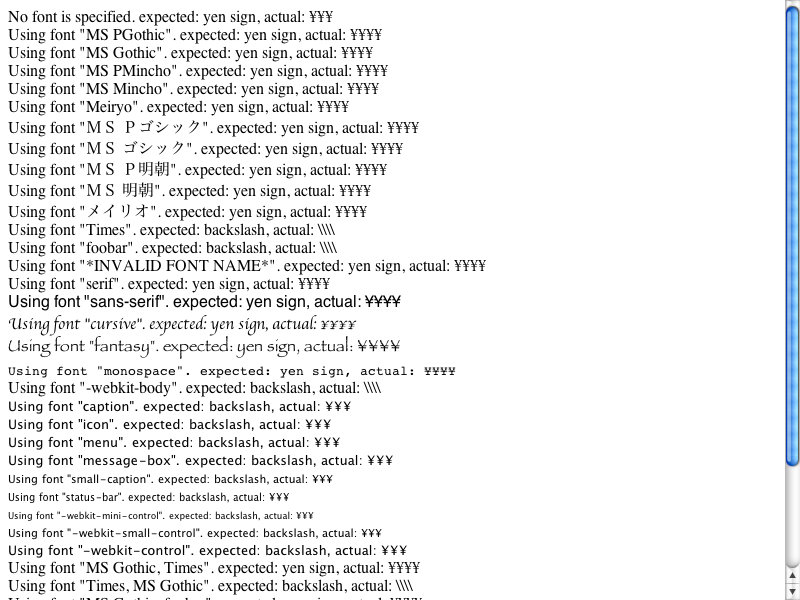
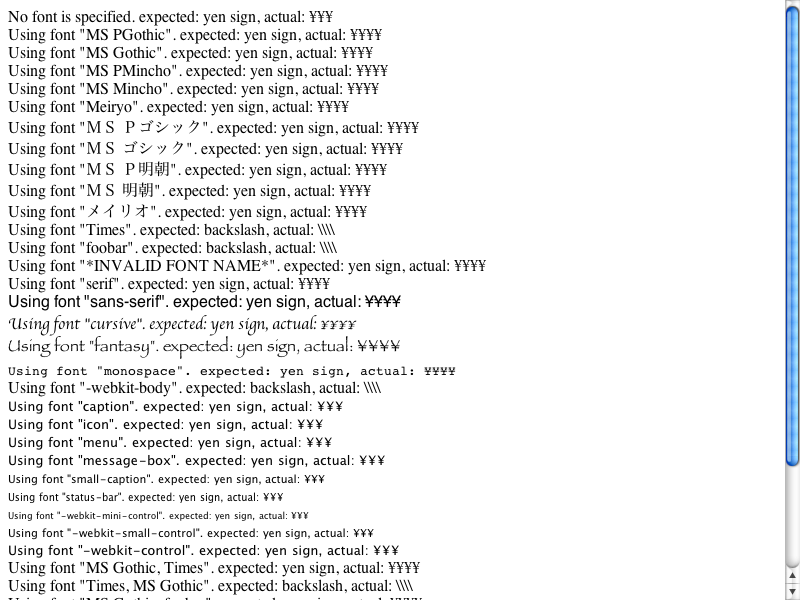
2010-10-11  Shinichiro Hamaji  <hamaji@chromium.org>
Reviewed by Alexey Proskuryakov.

        REGRESSION (r63957): fast/text/backslash-to-yen-sign-euc.html fails on Mac
        https://bugs.webkit.org/show_bug.cgi?id=47017

        * fast/text/backslash-to-yen-sign-euc.html:
        * platform/mac/fast/text/backslash-to-yen-sign-euc-expected.checksum:
        * platform/mac/fast/text/backslash-to-yen-sign-euc-expected.png:
        * platform/mac/fast/text/backslash-to-yen-sign-euc-expected.txt:

git-svn-id: http://svn.webkit.org/repository/webkit/trunk/LayoutTests@69564 268f45cc-cd09-0410-ab3c-d52691b4dbfc

Changed region(s): [[0.2188, 0.66, 0.5, 0.93]]

diff --git a/fast/text/backslash-to-yen-sign-euc.html b/fast/text/backslash-to-yen-sign-euc.html
@@ -29,15 +29,15 @@ function test()
         [ "fantasy", "yen sign" ],
         [ "monospace", "yen sign" ],
         [ "-webkit-body", "backslash" ],
-        [ "caption", "backslash", true ],
-        [ "icon", "backslash", true ],
-        [ "menu", "backslash", true ],
-        [ "message-box", "backslash", true ],
-        [ "small-caption", "backslash", true ],
-        [ "status-bar", "backslash", true ],
-        [ "-webkit-mini-control", "backslash", true ],
-        [ "-webkit-small-control", "backslash", true ],
-        [ "-webkit-control", "backslash", true ],
+        [ "caption", "yen sign", true ],
+        [ "icon", "yen sign", true ],
+        [ "menu", "yen sign", true ],
+        [ "message-box", "yen sign", true ],
+        [ "small-caption", "yen sign", true ],
+        [ "status-bar", "yen sign", true ],
+        [ "-webkit-mini-control", "yen sign", true ],
+        [ "-webkit-small-control", "yen sign", true ],
+        [ "-webkit-control", "yen sign", true ],
         [ "MS Gothic, Times", "yen sign" ],
         [ "Times, MS Gothic", "backslash" ],
         [ "MS Gothic, foobar", "yen sign" ],
